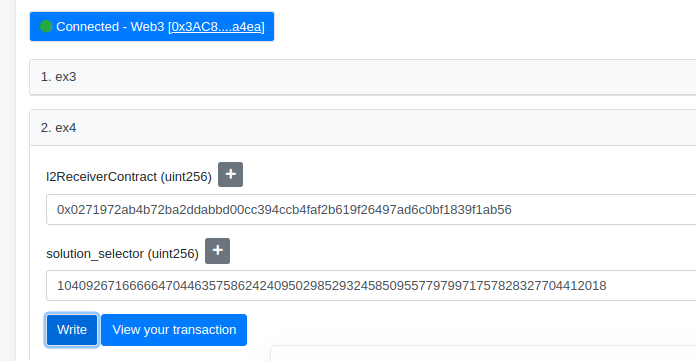
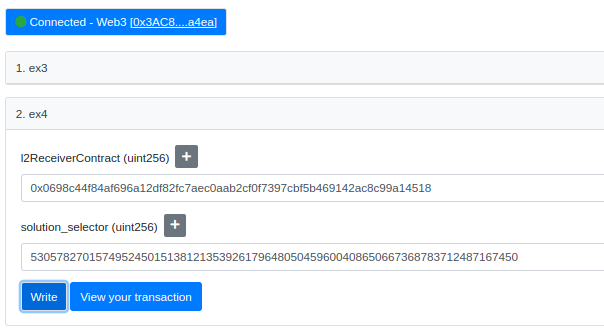
Nadai Starknet-Edu Bridge L2-L1

diff --git a/contracts/Solución/ex04.md b/contracts/Solución/ex04.md
@@ -60,35 +60,82 @@ Ahora realizaremos el `build`. Esto nos creará dos archivos `.json` dentro de l
 protostar build
 ```
 
-Luego de crearse los dos `.json` pasaremos hacer el Deploy, en el que debemos indicar nuestra dirección de usuario de L2 constructor. Para el `Selector` que nos hara falta más abajo mejor ir directos a la herramienta.
-* Podemos usar la [HERRAMIENTA](https://www.stark-utils.xyz/converter)
-* Podemos usal la guía [NADAI GUIA UTILS.PY](https://github.com/Nadai2010/Nadai-Cairo-721-Starknet-Edu/blob/master/contracts/Soluci%C3%B3n/ERC721ex01.md#configuraci%C3%B3n-de-argumentos)
+![Graph](/contracts/Imagenes/buildex04.png)
+
+
+Y ahora ya podemos declarar nuestro contrato en `testnet` usando protostar.
+
 
 ```bash
-protostar deploy ./build/ex4.json --network alpha-goerli -i 335586603167494297073463875456697154193160316138
+protostar -p testnet declare ./build/ex4.json --max-fee auto
 ```
 
-![Graph](/contracts/Imagenes/convertex4.png)
-![Graph](/contracts/Imagenes/deployeex04.png)
+![Graph](/contracts/Imagenes/declare.png)
 
-* [HASH](https://goerli.voyager.online/tx/0x267d37709e5564a3978f734ed2088c035bcc7ed088c5fe1d7c98d94581c76f0)
+* [Class Hash](https://testnet.starkscan.co/class/0x061fc28daf34dde4c7c5107238ebcdfb3e7ac26b85133cb38cc4eaf98ae86216)
+
+## Deploy
+
+Luego de crearse los dos `.json` pasaremos hacer el Deploy, lo haremos pasando el `clas hash`.
+
+```bash
+protostar -p testnet deploy 0x061fc28daf34dde4c7c5107238ebcdfb3e7ac26b85133cb38cc4eaf98ae86216 --max-fee auto 
+```
+
+![Graph](/contracts/Imagenes/deployex04.png)
+
+* [Contract](https://testnet.starkscan.co/contract/0x0698c44f84af696a12df82fc7aec0aab2cf0f7397cbf5b469142ac8c99a14518)
+
+---
+## Selector
+
+Para el `Selector` podemos usar la guía [NADAI GUIA UTILS.PY](https://github.com/Nadai2010/Nadai-Cairo-721-Starknet-Edu/blob/master/contracts/Soluci%C3%B3n/ERC721ex01.md#configuraci%C3%B3n-de-argumentos) o directamente usar los siguientes comandos desde vuestra raiz del proyecto.
+
+```bash
+python3.9
+```
+
+Luego se os deberá abrir el modo python en el que deberemos poner:
+
+
+```bash
+from starkware.starknet.compiler.compile import get_selector_from_name
+```
+
+```bash
+print(get_selector_from_name('l2_message_receiver'))
+```
+
+![Graph](/contracts/Imagenes/selector.png)
+
+
+>>> from starkware.starknet.compiler.compile import get_selector_from_name
+>>> print(get_selector_from_name('l2_message_receiver'))
+117175701913110284309765140125351758929939495308988214512727786289971258754
 
 ---
 
+## Ejercicio 4
+
 Ahora llamaremos a la función [`ex4`](https://goerli.etherscan.io/address/0x8055d587a447ae186d1589f7aaaf90caccc30179#writeContract) del contrato Evaluador L1, en la que deberemos
-pasar el `l2ReceiverContract` y `solution_selector`. El selector podemos usar el obtenido del contrato en la Herramienta usada arriba, también puede repasar documentos oficiales [L2-L1 Starknet Selector](https://starknet.io/docs/hello_starknet/l1l2.html#receive-a-message-from-l1)
+pasar el `l2ReceiverContract` y `solution_selector`. El selector podemos usar podemos usar la guía [NADAI GUIA UTILS.PY](https://github.com/Nadai2010/Nadai-Cairo-721-Starknet-Edu/blob/master/contracts/Soluci%C3%B3n/ERC721ex01.md#configuraci%C3%B3n-de-argumentos) o directamente el obtenido con los métodos arriba descritos, en nuestro caso `(117175701913110284309765140125351758929939495308988214512727786289971258754)`.
 
 ![Graph](/contracts/Imagenes/ex4.png)
 
-* [HASH](https://goerli.etherscan.io/tx/0x7d3be78977338cf7496d8c254613d13405373888269516a2fd3e08711d5cefe5)
+* [HASH ex4](https://goerli.etherscan.io/tx/0x6952d8253bf690ccbae7e7f869859b7790d88a47aa3326be804b19e887b3472a)
+
+
+Podremos revisar en nuestro l2 contract como se nos ha asignado un valor aleatorio.
+
+![Graph](/contracts/Imagenes/asigned.png)
 
 ---
 
 Luego subiremos el contrato al [Evaluador](https://goerli.voyager.online/contract/0x595bfeb84a5f95de3471fc66929710e92c12cce2b652cd91a6fef4c5c09cd99#writeContract) en `submit_exercise` para su evaluación. 
 
-![Graph](/contracts/Imagenes/submitex04.png)
+![Graph](/contracts/Imagenes/submitex4.png)
 
-* [HASH](https://goerli.voyager.online/tx/0x50292c00352e51d797cef177d7392b17f963c9869121818699641267110bc3d#internalCalls)
+* [HASH submit](https://goerli.voyager.online/tx/0x3b7574206ca9cf68acc6336bfdf75c8f1c31b1b0be90c3302051ec4ad6d3640)
 
 ----
 
@@ -96,7 +143,7 @@ Para terminar llame a [`ex4_b`](https://github.com/Nadai2010/Nadai-Starknet-Edu-
 
 ![Graph](/contracts/Imagenes/ex4b.png)
 
-* [HASH]()
+* [HASH](https://goerli.voyager.online/tx/0x33806d3b7104f780b5b548626128f092a33e3bbf3fc340bb03dabc223110352)
 
 ---
 ## Verificación de ejercicio
@@ -111,9 +158,5 @@ También puede revisar de una forma mas entretenida sus resultados en la siguien
 
 ![Graph](/contracts/Imagenes/puntosex04.png)
 
+![Graph](/contracts/Imagenes/total.png)
 
-
--------------------------------------NOTAS----------------------------------
-
-
-Ejercicio en pruebas, intentando añadir repo de stake que L2-L1 que contendrá validación para este ejercicio
